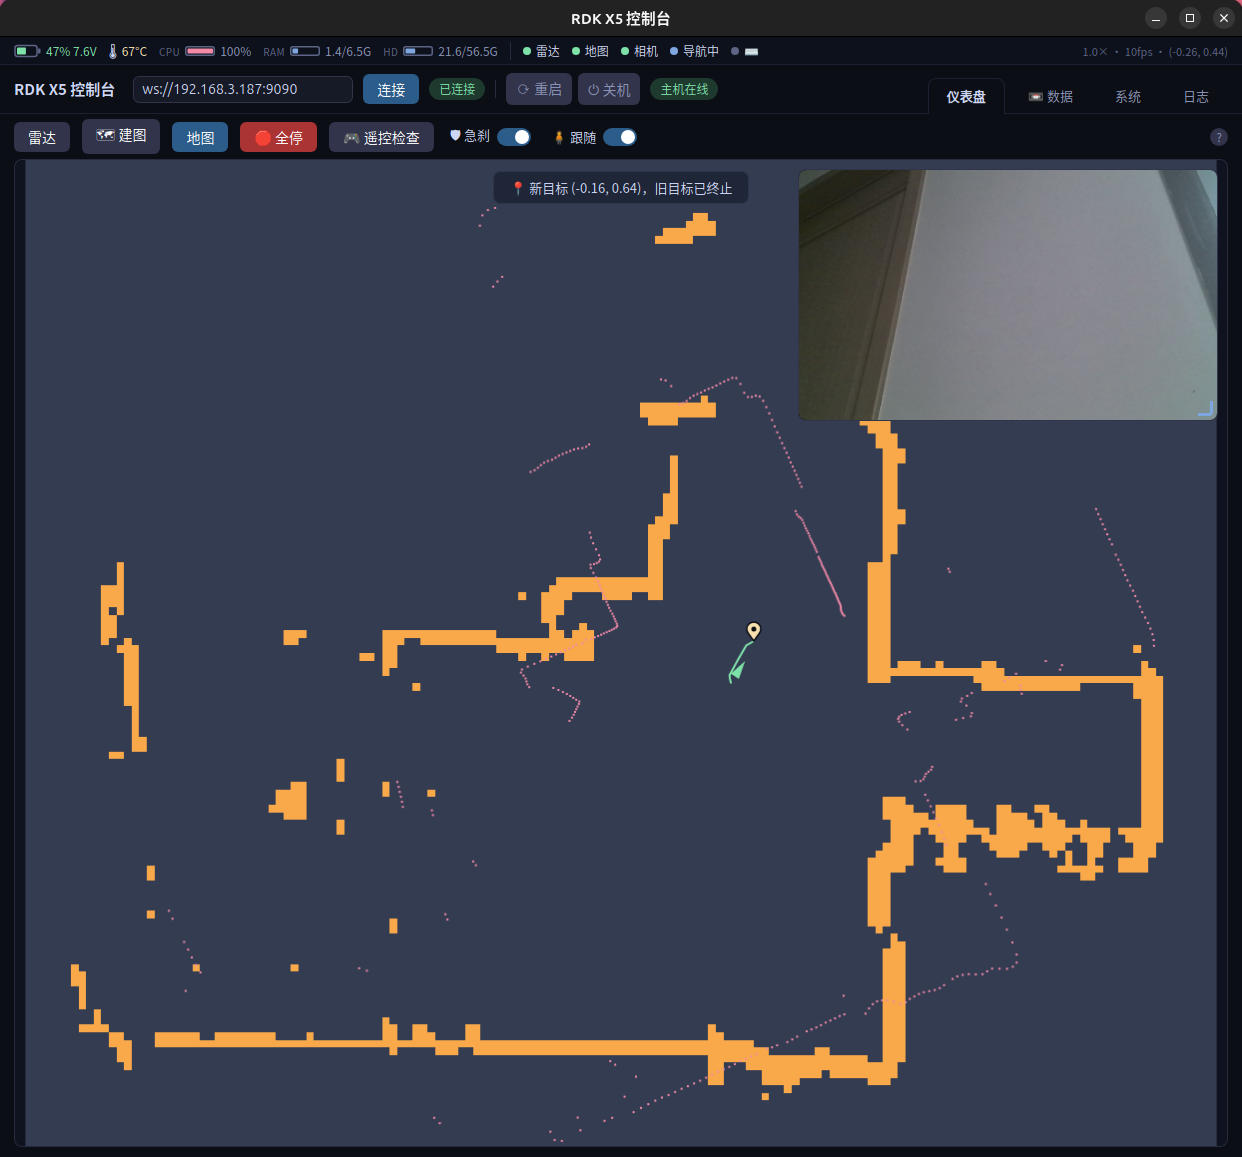
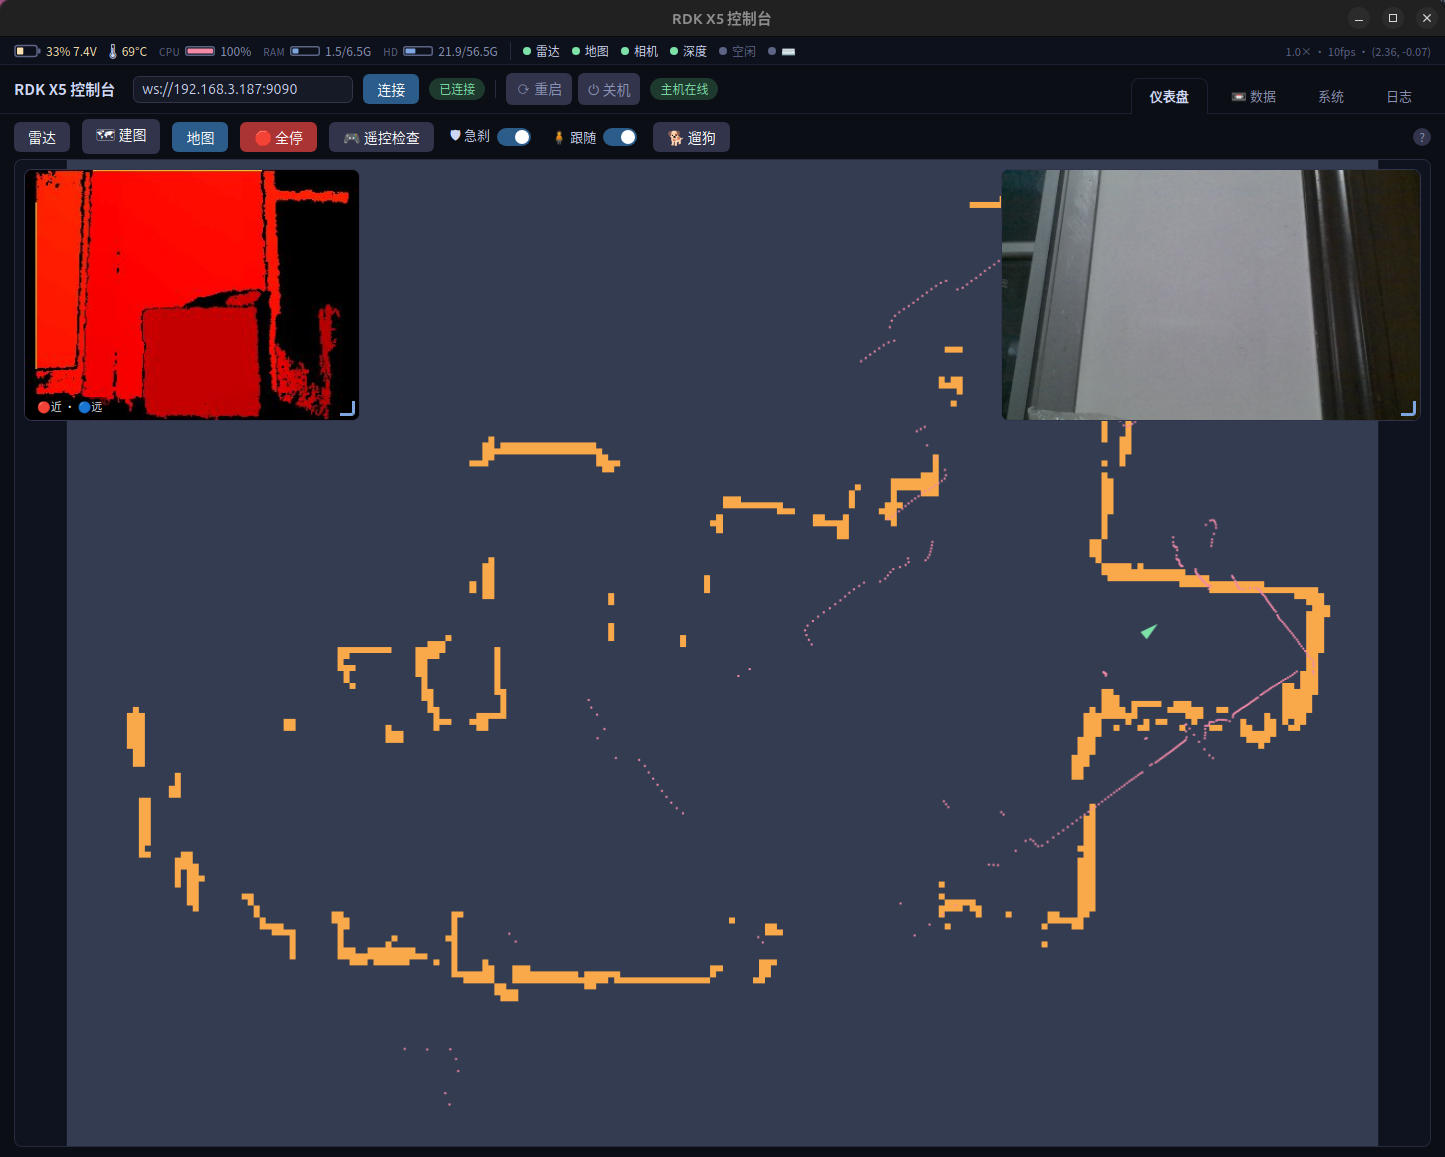
docs(readme): reorganize into 7 sections, add dog-walk mode and Astra depth camera

diff --git a/README.md b/README.md
@@ -1,186 +1,191 @@
 # RDK X5 Robot 实验记录 / Experiments
 
-亚博（Yahboom）**RDK X5 ROBOT** 麦克纳姆轮小车上的机器人实验：自主导航、
-相机+雷达融合跟随、自研桌面控制台。主控为地平线 D-Robotics **RDK X5**
-（8×Cortex-A55 + 10TOPS BPU），预装 Ubuntu 22.04 + ROS2 Humble + TogetheROS（tros）。
+亚博（Yahboom）**RDK X5 ROBOT** 麦克纳姆轮小车上的机器人实验：自主导航、融合跟随、
+反应式漫游、深度感知、数据录制，外加一个自研桌面控制台。主控为地平线 D-Robotics
+**RDK X5**（8×Cortex-A55 + 10 TOPS BPU），预装 Ubuntu 22.04 + ROS2 Humble + TogetheROS（tros）。
 
-> 传感器布局：顶部 ORADAR MS200 激光雷达（360° / 10 Hz）；车头 IMX219 MIPI 相机（斜向上装，
-> 看人脸和上身）；四轮麦克纳姆轮（全向移动）。
+> 传感器布局：顶部 ORADAR MS200 激光雷达（360° / 10 Hz）；车头 **USB Orbbec Astra Pro
+> 结构光深度相机**（深度 + 彩色，替换原 IMX219 CSI 相机）；四轮麦克纳姆轮（全向移动）。
 
 ![RDK X5 Robot](docs/images/car.jpg)
 
-**接入 / 冷启动 / WiFi / VNC / 相机预览**等环境配置已拆到
+**接入 / 冷启动 / WiFi / VNC / 相机预览**等环境配置见
 👉 [`docs/setup.md`](docs/setup.md)。日常 `ssh root@192.168.3.187`，开机自启全套服务，直接做实验。
 
 ---
 
 ## 实验一览 / Experiments at a glance
 
-| 实验 | 状态 | 入口 / 文档 |
+| 实验 | 状态 | 入口 |
 | --- | --- | --- |
-| 系统体检与硬件拓扑 | ✅ | [`docs/rdk-x5-system-report.html`](docs/rdk-x5-system-report.html) |
-| 雷达/相机/底盘打通 + 浏览器仪表盘 | ✅ | [`docs/lidar-live-viewer.html`](docs/lidar-live-viewer.html) |
-| Cartographer 建图 + Nav2 自主导航 | ✅ | §2，参数 `board/home/sunrise/nav_config/` |
-| GUI 一键建图/存图工作流 | ✅ 实测 | §2，[`docs/rdk-x5-mapping-workflow.html`](docs/rdk-x5-mapping-workflow.html) |
-| Episode 数据录制（rosbag2）+ 数据 Tab | ✅ 实测 | §4，[`docs/rdk-x5-dataset-recorder-design.html`](docs/rdk-x5-dataset-recorder-design.html) |
-| cmd_vel 安全仲裁 + 驱动崩溃自愈 | ✅ | §2.2 事故复盘 |
-| 激光急刹 safety_stop（rclcpp） | ✅ 实测 | §2.3，[`board/home/sunrise/ros2_ws/src/safety_stop/`](board/home/sunrise/ros2_ws/src/safety_stop/) |
-| **Follow-me 相机+雷达融合跟随** | ✅ 实测可用 | §3，[`docs/rdk-x5-follow-me-fusion.html`](docs/rdk-x5-follow-me-fusion.html) |
-| 桌面控制台 GUI（Tauri） | ✅ | §1，[`docs/rdk-x5-gui-architecture.html`](docs/rdk-x5-gui-architecture.html) |
-| 官方实验取舍与进阶路线（4090 端云推理） | 📝 规划 | [`docs/rdk-x5-official-experiments-and-advanced-practice.html`](docs/rdk-x5-official-experiments-and-advanced-practice.html) |
+| 桌面控制台 GUI（Tauri，4 Tab） | ✅ | §1 |
+| Cartographer 建图 + Nav2 自主导航 + GUI 一键建图/存图 | ✅ 实测 | §2 |
+| cmd_vel 安全仲裁 + 驱动崩溃自愈 + 激光急刹 safety_stop | ✅ 实测 | §2.2 / §2.3 |
+| Follow-me 相机 + 雷达融合跟随 | ✅ 实测 | §3.1 |
+| 遛狗模式：纯反应式雷达漫游/闻/后退/转身 | ✅ 已部署 | §3.2 |
+| USB Astra 深度相机预览（裸 OpenNI2） | ✅ 实测 | §4 |
+| Episode 数据录制（rosbag2）+ 数据 Tab | ✅ 实测 | §5 |
+| 官方实验取舍与进阶路线（4090 端云推理） | 📝 规划 | [`docs/…advanced-practice.html`](docs/rdk-x5-official-experiments-and-advanced-practice.html) |
 
 ---
 
 ## 1. 桌面控制台 GUI（Tauri 自研）
 
 `gui/` 下的跨平台桌面应用（Tauri + rosbridge websocket），把散落的浏览器页面收敛成一个控制台，
-四个 Tab：**仪表盘**（地图/雷达/相机三层叠加、点击图钉导航、建图/存图、急刹与跟随开关、全停）、
-**📼 数据**（episode 列表/录制/预览回看/RViz 回放/拉取删除）、**系统**（硬件拓扑 + 软件栈框图）、
-**日志**（板上 journald 流式查看）。状态栏：电量/温度/CPU/内存/硬盘 + 各话题活性灯。
+四个 Tab：
 
-**仪表盘**：地图（AMCL 定位，绿色箭头为车）+ 雷达点云（粉色）+ 相机画中画（含手势检测框叠加）。
-**点击地图任意点 = 📍 图钉落地 + 下发导航目标**（再点=换目标，🛑 全停清除）。
-顶栏 `🧍 跟随` 滑块开关直接 enable/disable 板上 `follow-me.service`，重启小车依然生效：
+- **仪表盘** — 地图（AMCL 定位，绿箭头为车）+ 雷达点云（粉）+ **右上彩色画中画** + **左上深度画中画**
+  （红近蓝远）；点击地图任意点 = 📍 图钉落地 + 下发导航目标；顶栏按钮：建图/存图、🛡 急刹、
+  🧍 跟随、🐕 遛狗、🛑 全停。
+- **📼 数据** — episode 列表 / 录制 / 行内回看 / 本机 RViz 回放 / 拉取删除（§5）。
+- **系统** — 实机核实的硬件拓扑 + ROS2 软件栈框图（节点按出身着色）。
+- **日志** — 板上 journald 流式查看。
+
+状态栏：电量 / 温度 / CPU / 内存 / 硬盘 + 各话题活性灯（含深度流 `iDepth`）。
 
 ![GUI 仪表盘](docs/images/gui-dashboard.jpg)
 
-**系统 Tab**：实机核实的硬件拓扑 + ROS2 软件栈框图（节点按出身着色：上游/tros/亚博/自研），
-右侧汇总 systemd 自启服务与程序/配置落盘位置——新人看这一屏就知道整车软件怎么组织：
+**系统 Tab**：硬件拓扑 + 软件栈框图，右侧汇总 systemd 服务与程序/配置落盘位置——新人看一屏就懂整车软件：
 
 ![GUI 系统拓扑](docs/images/gui-system.jpg)
 
-架构细节（进程模型、rosbridge 订阅清单、离线降级）见
+架构细节（进程模型、rosbridge 订阅清单、离线降级、悬浮窗拖拽公用件）见
 [`docs/rdk-x5-gui-architecture.html`](docs/rdk-x5-gui-architecture.html)。
 
 ---
 
-## 2. 建图与 Nav2 自主导航（2026-07-11 实机验证 ✅）
+## 2. 建图与 Nav2 自主导航（实机验证 ✅）
 
-- **建图（GUI 一键工作流，2026-07-14 ✅）**：仪表盘 `🗺 建图` 按钮启停
-  `mapping.service`（仅 cartographer 本体，`Conflicts=nav2.service` 与导航互斥交接）；
-  手柄慢速走一圈，画布实时显示地图生长，**暗橙=存图会被三值化丢掉的弱墙**（置信度 25–65），
-  开近补扫变亮橙再存；`💾 存图` 跑 `map_save.sh`：备份 `room.bak.*` → 覆盖
-  `room.{yaml,pgm}` → 自动切回导航。详见
-  [`docs/rdk-x5-mapping-workflow.html`](docs/rdk-x5-mapping-workflow.html)。
-- **导航**：`navigation_dwb_launch.py`（Nav2 + AMCL + DWB），调优参数
-  `/home/sunrise/maps/nav_params_tuned.yaml`：`robot_radius 0.1→0.13`、膨胀半径
-  `0.12/0.2→0.35`（否则贴着桌腿擦过去必撞）、限速 0.18 调通后提至 `0.6`。
-- **交互**：GUI 里**点击地图任意点**即下发目标（📍 图钉常驻显示最新目标，
-  终点朝向自动取车→目标方向），`🛑 全停` 取消。
+- **建图（GUI 一键工作流）**：仪表盘 `🗺 建图` 启停 `mapping.service`（仅 cartographer，
+  `Conflicts=nav2` 与导航互斥交接）；手柄慢速走一圈，画布实时显示地图生长，
+  **暗橙 = 存图会被三值化丢掉的弱墙**（置信 25–65），近补扫变亮橙再存；`💾 存图` 备份旧图 →
+  覆盖 `room.{yaml,pgm}` → 自动切回导航。详见 [`docs/rdk-x5-mapping-workflow.html`](docs/rdk-x5-mapping-workflow.html)。
+- **导航**：`navigation_dwb_launch.py`（Nav2 + AMCL + DWB），关键调参 `nav_params_tuned.yaml`：
+  `robot_radius 0.1→0.13`、膨胀半径 `→0.35`（否则贴桌腿擦过必撞）、限速 0.18 调通后提至 0.6。
+- **交互**：GUI 点击地图任意点即下发目标（📍 图钉常驻最新目标，`🛑 全停`取消）。
 
-### 2.1 开机自启服务（板上 6 个）
+### 2.1 开机自启服务
 
-unit 文件在仓库 [`board/etc/systemd/system/`](board/etc/systemd/system/)，重启实测通过：
+unit 在 [`board/etc/systemd/system/`](board/etc/systemd/system/)，重启实测通过：
 
 | 服务 | 作用 |
 |---|---|
 | `ms200-lidar` | 雷达驱动，发布 `/scan` |
 | `rosbridge` | DDS → WebSocket 桥（`ws://<板子IP>:9090`） |
-| `mipi-cam` | 相机 `/image_jpeg`（等 ISP 就绪再起，防开机竞态） |
-| `nav-bringup` | 底盘驱动 + 里程计/EKF + 手柄 + cmd_vel 仲裁 mux + episode 录制器（§4） |
+| `astra-cam` | USB Astra 深度相机预览节点（§4，替换退役的 CSI `mipi-cam`） |
+| `nav-bringup` | 底盘驱动 + 里程计/EKF + 手柄 + cmd_vel 仲裁 mux + episode 录制器（§5）+ 遛狗节点（§3.2） |
 | `nav2` | AMCL + 规划器 + 控制器（自动喂初始位姿；无目标不动车） |
-| `follow-me` | BPU 感知 ×3 + 融合跟随节点（GUI 开关控制，见 §3） |
+| `follow-me` | BPU 感知 ×3 + 融合跟随节点（GUI 开关控制，§3.1） |
 
-另有按需单元 `mapping`（不自启）：cartographer 建图，`Conflicts=nav2` 互斥，GUI `🗺 建图` 启停。
+另有按需单元 `mapping`（不自启，`Conflicts=nav2`，GUI `🗺 建图` 启停）。
 
 ```bash
 # 换地图/重喂定位：sudo bash /home/sunrise/nav_config/nav_start.sh [map.yaml]
-# 重刷机后恢复：在电脑上跑 scripts/deploy_board.sh（rsync board/ 镜像 + enable 服务）
+# 重刷机后恢复：电脑上跑 scripts/deploy_board.sh（rsync board/ 镜像 + enable 服务）
 ```
 
 ### 2.2 cmd_vel 安全仲裁与事故复盘（重要）
 
-- **仲裁 mux**（[`board/home/sunrise/nav_config/cmd_vel_mux.py`](board/home/sunrise/nav_config/cmd_vel_mux.py)，自研）：
-  三优先级 `/cmd_vel_joy`(手柄) > `/cmd_vel_follow`(跟随) > `/cmd_vel`(Nav2) 汇入 → `/cmd_vel_mux`
-  → §2.3 激光急刹 → `/cmd_vel_drv` → 驱动。
-  导航/跟随中动手柄立即接管，松手 0.5 s 恢复；**空闲时持续发零速**（10 Hz）；
-  另带**方向感知雷达护栏**：沿运动方向 ±30° 扇区取最近障碍，按余量线性限速，无有效数据视为堵死。
+**仲裁 mux**（[`cmd_vel_mux.py`](board/home/sunrise/nav_config/cmd_vel_mux.py)，自研）四级优先级汇入：
+`/cmd_vel_joy`(手柄) > `/cmd_vel_dog`(遛狗) > `/cmd_vel_follow`(跟随) > `/cmd_vel`(Nav2)
+→ §2.3 激光急刹 → `/cmd_vel_drv` → 驱动。导航/跟随中动手柄立即接管，松手 0.5 s 恢复；
+**空闲持续发零速**（10 Hz）；另带**方向感知雷达护栏**（沿运动方向 ±30° 取最近障碍线性限速）。
+
 - **事故复盘**：亚博 `Mcnamu_driver` 的 RGB 灯 I2C 写入无异常保护，按手柄键可致
-  **驱动进程崩死 → MCU 持续执行最后一条非零速度 → ROS 层任何停车手段全部失效**。
-  修复=驱动 `respawn=True` + mux 空闲零速流，实测行驶中 `kill -9` 驱动 ≈1.5 s 内自动刹停。
-  浏览器/GUI 的"终止"按钮**不是急停**——WiFi 断了它就是块砖；真急停=手柄使能键/拎车/电源开关。
-- **手机 APP 与导航互斥**：亚博 APP 直写底盘串口（不走 ROS），与驱动并存会双写抢串口导致
-  车抽搐。其 XFCE 自启已禁（`Start APP Program.desktop` 置 `Hidden=true`，改回即恢复原厂）。
-- **systemd 坑**：厂商 `cam-service` 单元 `After=multi-user.target` 又 `WantedBy=multi-user.target`，
-  任何 `After=cam-service` 的服务都会构成依赖环 → **开机静默丢弃 job（无日志）**。
-- **电量**：`/voltage`（2S 18650，满 8.4 V；≈7.6 V 扩展板蜂鸣报警+限电机）。GUI 顶栏显示百分比。
+  **驱动崩死 → MCU 持续执行最后一条非零速度 → ROS 层任何停车全部失效**。
+  修复 = 驱动 `respawn=True` + mux 空闲零速流，实测行驶中 `kill -9` 驱动 ≈1.5 s 内自动刹停。
+  **浏览器/GUI 的"终止"不是急停**（WiFi 断了它就是块砖）；真急停 = 手柄使能键 / 拎车 / 电源开关。
+- **欠压坑**：`/voltage` ≤7.6 V（2S 18650，满 8.4 V）扩展板蜂鸣 + 限电机，驱动 I2C 大面积报错，
+  表现酷似"遥控坏了"——先看电池条，唯一解是充电。
+- **手机 APP 互斥**：亚博 APP 直写串口（不走 ROS），与驱动双写抢串口致车抽搐，XFCE 自启已禁。
+- **systemd 坑**：厂商 `cam-service` 单元 `After` 与 `WantedBy` 都指 `multi-user.target`，
+  任何 `After=cam-service` 会构成依赖环 → 开机静默丢 job（无日志）。
 
-### 2.3 激光急刹 safety_stop / Lidar safety brake（rclcpp，实测 ✅）
+### 2.3 激光急刹 safety_stop（rclcpp，实测 ✅）
 
-自研 C++ 节点 [`board/home/sunrise/ros2_ws/src/safety_stop/`](board/home/sunrise/ros2_ws/src/safety_stop/)，
-串在仲裁 mux 与驱动之间（`/cmd_vel_mux` → safety_stop → `/cmd_vel_drv`），
-过滤**最终输出**——手柄、跟随、Nav2 一视同仁：
+自研 C++ 节点 [`ros2_ws/src/safety_stop/`](board/home/sunrise/ros2_ws/src/safety_stop/)，串在 mux 与驱动之间，
+过滤**最终输出**（手柄/跟随/Nav2 一视同仁）：
 
-- **净空比例限速，不是固定阈值急停**：沿运动方向 ±30° 雷达扇区取最近障碍，
-  允许速度 = (净空 − 0.30 m) / 0.5，0.30 m 处归零。快=提前从 ~0.8 m 外开始压速度，
-  慢=几乎无感。实测固定 30 cm 阈值在 1.0 m/s 全速下刹不住（10 Hz 雷达延迟+惯性滑行），
-  比例限速全速冲墙可停。
-- **方向感知,永不锁死**：前进查前方、倒车查后方、横移查侧方（MS200 360°）；
-  背离障碍物的方向永远放行,被拦住后直接反向开走。原地旋转不拦。
-- **fail-open**：雷达挂了放行不拦（手柄不能陪葬），日志告警；
-  无人监督的跟随通道在 mux 层另有 fail-close 护栏兜底。
-- **运行时开关**：开机默认开；GUI 顶栏 `🛡 急刹` 拨钮或手柄按键发 `/safety_toggle` 翻转，
-  状态经 latched `/safety_enabled` 广播（节点持有状态,各处只发翻转+镜像显示,单一机制）。
-  切换蜂鸣反馈：**开=滴滴两短,关=长滴一声**（走驱动 `/Buzzer` 话题）。
-- 板上 `~/ros2_ws` colcon 编译；由 `nav-bringup` 启动、respawn 自愈；阈值/增益是 ROS 参数。
+- **净空比例限速,非固定阈值**：沿运动方向 ±30° 取最近障碍，允许速度 =(净空−0.30)/0.5，0.30 m 归零。
+  实测固定 30 cm 阈值在 1 m/s 全速刹不住（雷达 10 Hz 延迟 + 滑行），比例限速全速冲墙可停。
+- **方向感知,永不锁死**：前进查前、倒车查后、横移查侧；背离障碍永远放行；原地旋转不拦。
+- **fail-open**：雷达挂了放行（手柄不陪葬），跟随通道在 mux 层另有 fail-close 兜底。
+- **运行时开关**：默认开；GUI `🛡 急刹` 或手柄键发 `/safety_toggle` 翻转，latched `/safety_enabled` 广播；
+  开 = 滴滴两短,关 = 长滴一声（走 `/Buzzer`）。
 
 ---
 
-## 3. Follow-me：相机 + 雷达融合跟随（实测可用 ✅）
+## 3. 自主行为 / Autonomous behaviors
 
-自研 rclpy 节点 [`board/home/sunrise/follow/follow_me.py`](board/home/sunrise/follow/follow_me.py)，
-对着相机 **👌 OK 手势**锁定主人开始跟随（滴滴短鸣），**✋ 手掌**停止（长鸣一声）。
-核心思路：**两条观测通道常开并行，不做模式切换**——
+### 3.1 Follow-me：相机 + 雷达融合跟随（实测可用 ✅）
 
-| 通道 | 传感器 | 提供什么 | 频率 |
-| --- | --- | --- | --- |
-| 身份通道 | 相机 + BPU（mono2d 人体检测 / 手势识别） | 是谁（track_id）、方位角、轮廓尺度 | ~30 FPS |
-| 几何通道 | MS200 雷达腿聚类 | 精确距离与方位（360°，含车后） | 10 Hz |
+自研 rclpy 节点 [`follow_me.py`](board/home/sunrise/follow/follow_me.py)：对相机比 **👌 OK** 锁定主人开始跟随，
+**✋ 手掌**停止。核心是**两条观测通道常开并行,不做模式切换**——相机 + BPU 给身份/方位角/尺度（~30 FPS），
+MS200 雷达腿聚类给精确距离方位（10 Hz，含车后）；单控制环 10–40 Hz 融合，相机暗了无缝落雷达。关键设计：
 
-单一控制环 10–40 Hz 融合两者：相机新鲜时用相机方位角，暗了（转身/出视野/1 m 内仰角丢人）
-无缝落到雷达腿跟踪；雷达门限用相机方位锚定或按腿速度外推。关键设计：
+- **认腿 = 运动判别**：桌腿凳腿尺寸与人腿不可分，唯一可靠特征是"会动"；用 `/odom` 换算世界系抵消自身运动，
+  新咬合要求该位置 1.2 s 前是空的，持有中若 3 s 世界系静止且相机也黑则判定跟错家具、放弃。
+- **麦轮矢量速度**：速度向量直指主人（不等车头转过去）+ PD 转向甩头；直行 0.5，斜向最高 0.8 m/s。
+- **安全**：跟随速度同样过 §2.2 mux 护栏与手柄抢占；感知超时 3 s 强制刹停。
 
-- **认腿=运动判别**：桌腿/凳腿尺寸上与人腿不可分，唯一可靠特征是"会动"。
-  用 `/odom` 把雷达聚类换算到**世界系**抵消自身运动——新咬合要求该位置 1.2 s 前是空的，
-  持有中若 3 s 世界系静止且相机也黑，判定跟错了家具，放弃。
-- **麦轮矢量速度**：速度向量 `vx=v·cosθ, vy=v·sinθ` 直指主人（不等车头转过去），
-  同时 PD 转向（比例 + 方位变化率前馈）高频把车头甩向主人；直行 0.5 m/s，
-  角度越大越加速，斜向最高 0.8 m/s。
-- **丢失恢复**：短暂丢失（<10 s）主人回到视野即自动"滴滴"重锁；两通道全黑 2.5 s 才停车。
-- **安全**：跟随速度同样过 §2.2 的 mux 雷达护栏与手柄抢占；感知超时 3 s 强制刹停。
+算法细节（门限、状态机、手势投票、踩坑六条）见 [`docs/rdk-x5-follow-me-fusion.html`](docs/rdk-x5-follow-me-fusion.html)。
+> 注：跟随基于原 IMX219 相机开发，现相机已换 USB Astra，跟随链接回 Astra 彩色（含几何适配）待办。
 
-启动链 [`follow_start.sh`](board/home/sunrise/follow/follow_start.sh) 拉起 3 个 tros BPU 感知节点
-（人体检测→手部关键点→手势分类，全程 BPU 推理，单帧 ~10 ms）+ 融合节点，由
-`follow-me.service` 管理，GUI 滑块一键启停并持久化。
+### 3.2 遛狗模式：纯反应式雷达漫游（已部署）
 
-算法细节（门限参数、状态机、手势投票、踩坑六条）见
-👉 [`docs/rdk-x5-follow-me-fusion.html`](docs/rdk-x5-follow-me-fusion.html)。
+自研 rclpy 节点 [`dog_walk.py`](board/home/sunrise/nav_config/dog_walk.py)：小车像小狗一样走走停停闻闻——
+朝最空方向**三角波变速**小跑（空旷快，≤0.5 m/s），撞见桌脚凳脚一类**孤立小障碍**凑近"闻"几秒、
+后退一小步、朝净空方向转身去下一处。**不用地图 / 不用 Nav2 / 不用 odom** —— 就是单帧 MS200 的反应式行为。
 
----
+- **认腿**：物理宽度 [0.02,0.3] m + 最少点数 + 连续 3 帧一致（不用 odom）；随机加权开阔方向选路。
+- **停动作不停功能**：mux 里遛狗排 P1（跟随/Nav2 之上），启遛狗即在总线层压住它们的运动，
+  但**功能开关/服务原样在**，遛狗一停立刻续上；反向靠单次 `/dog_stop` 抢占。
+- **触发/安全**：手柄 **R1 键** / GUI **🐕 遛狗** 按钮切换（启 = 两短滴,停 = 一长滴,GUI 显示已跑秒数），
+  最长 10 min 自动停；抓杆即退出、雷达失联 fail-close 停车、Y 键 / 🛑 全停一并停。
 
-## 4. Episode 数据录制与回放（rosbag2，实测 ✅）
-
-为后续模仿学习/数据集积累做的一键示教录制：手柄 **START 键**或 GUI/数据 Tab 的 `⏺ 录制`
-按钮开停，板端常驻节点 [`episode_recorder.py`](board/home/sunrise/nav_config/episode_recorder.py)
-（随 `nav-bringup` 启动）把 11 个话题（scan/odom/tf/各级 cmd_vel/joy/相机 JPEG）录成
-`~/episodes/ep_<时间戳>/`，蜂鸣反馈、磁盘余量护栏、时长上限（默认 3 min，GUI 可调）。
-复用急刹开关同款**单一属主模式**：节点持有状态，手柄/GUI 只发 `/record_toggle` 翻转 +
-镜像 latched `/recording`；🛑 全停走幂等 `/record_stop`（不会反向开录）。
-
-**GUI 📼 数据 Tab**：episode 列表（倒序/大小/时长/板上余量）、行内展开快速回看
-（帧滑条 + odom 轨迹 + cmd_vel 时间轴，走 ≤150 帧抽样 preview，5 MB 级秒拉）、
-`🔭 回放` 一键拉包并本机 RViz2 复现（`scripts/replay.sh`，隔离 DOMAIN + sim time）、
-拉取/删除。深度分析用 [`notebooks/episode_lab.ipynb`](notebooks/episode_lab.ipynb)。
-设计与评审细节见 [`docs/rdk-x5-dataset-recorder-design.html`](docs/rdk-x5-dataset-recorder-design.html)。
+设计与 codex 评审（三处坏品味被推翻）见 [`docs/rdk-x5-dog-walk-design.html`](docs/rdk-x5-dog-walk-design.html)。
 
 ---
 
-## 5. 硬件速览 / Hardware at a glance
+## 4. USB Astra 深度相机预览（裸 OpenNI2，实测 ✅）
+
+车头换成 **USB Orbbec Astra Pro** 结构光深度相机，深度伪彩进 GUI 左上窗（红近蓝远）。自研节点
+[`astra_preview.py`](board/home/sunrise/nav_config/astra_preview.py)，`astra-cam.service` 开机自启：
+
+- **弃用亚博 `astra_camera` ROS 驱动**——它开机关 IR 激光、`set_ldp_enable` 又报错关不掉，导致深度恒 0；
+  改用**裸 OpenNI2（primesense）直读**深度（30 fps 稳定），LUT 上色 → `/camera/depth/color_jpeg` @15 fps。
+- **活性看门狗**：只发新帧（冻结即停发，GUI 掉流灯生效）+ 掉线/卡死即进程退出让 systemd 重启（兼顾热插拔）。
+- **USB2 物理限制**：深度（bulk）与彩色（UVC isochronous）带宽互斥，同开彩色会把深度砸到 ~1.5 fps，
+  故**彩色默认关**（`enable_color:=true` 才开）；供电吃紧，需车子供电足或独立供电 hub。
+- **量程**：约 0.6–8 m，太近/太远/玻璃反光/黑色吸红外都无回波（画面对应区域黑，属正常）。
+
+踩坑全记（激光默认关、LDP、带宽矩阵、供电、判据用 rclpy 探针）在 `.memory/rdk-x5-astra-depth.md`。
+
+---
+
+## 5. Episode 数据录制与回放（rosbag2，实测 ✅）
+
+为模仿学习/数据集积累做的一键示教录制：手柄 **START** 或 GUI 数据 Tab `⏺ 录制` 开停，板端常驻节点
+[`episode_recorder.py`](board/home/sunrise/nav_config/episode_recorder.py)（随 `nav-bringup` 起）把 11 个话题
+（scan/odom/tf/各级 cmd_vel/joy/相机 JPEG）录成 `~/episodes/ep_<时间戳>/`，蜂鸣反馈、磁盘护栏、时长上限。
+复用**单一属主模式**：节点持有状态，手柄/GUI 只发 `/record_toggle` 翻转 + 镜像 latched `/recording`。
+
+**GUI 📼 数据 Tab**：episode 列表（倒序/大小/时长/余量）、行内展开快速回看（帧滑条 + odom 轨迹 +
+cmd_vel 时间轴，≤150 帧抽样 preview）、`🔭 回放` 一键拉包本机 RViz2 复现（`scripts/replay.sh`）、拉取/删除。
+
+![GUI 数据 Tab](docs/images/gui-data.jpg)
+
+深度分析用 [`notebooks/episode_lab.ipynb`](notebooks/episode_lab.ipynb)；设计与评审见
+[`docs/rdk-x5-dataset-recorder-design.html`](docs/rdk-x5-dataset-recorder-design.html)。
+
+---
+
+## 6. 硬件速览 / Hardware
 
 | 部件 | 规格 |
 | --- | --- |
-| 主控 | 地平线 **RDK X5 V1.0**（8×Cortex-A55 @1.5 GHz + BPU Bayes-e 10TOPS，6.5 GiB LPDDR4） |
-| 相机 | Sony **IMX219** MIPI CSI0，1080P @30FPS，斜向上安装 |
+| 主控 | 地平线 **RDK X5 V1.0**（8×Cortex-A55 @1.5 GHz + BPU Bayes-e 10 TOPS，6.5 GiB LPDDR4） |
+| 深度相机 | **Orbbec Astra Pro**（USB，结构光深度 + 彩色 UVC；走 OpenNI2）。原 Sony IMX219 CSI 已退役 |
 | 激光雷达 | **ORADAR MS200** 360° 10 Hz，0.15–20 m（`/dev/oradar`） |
 | 底盘 | 麦克纳姆轮 ×4 + STM32 扩展板（串口 `/dev/myserial`，含 IMU/电池管理） |
 | 其他 | AIC8800 WiFi/BT、OLED 状态屏、2.4G 手柄接收器、40-pin GPIO |
@@ -189,36 +194,24 @@ unit 文件在仓库 [`board/etc/systemd/system/`](board/etc/systemd/system/)，
 
 ---
 
-## 6. 目录结构 / Repo layout
+## 7. 目录结构 / Repo layout
 
 ```
 RDK-experience/
 ├── README.md                       # 本文件：实验记录主线
 ├── CLAUDE.md / AGENTS.md           # 给 AI 协作工具的项目说明
 ├── .memory/                        # 跨工具持久记忆（协议 SKILL.md + 索引 + 事实）
-├── board/                          # 板端文件 1:1 镜像（路径与板子一致，重刷机后一键恢复）
-│   ├── etc/systemd/system/         #   服务 unit（自启 ×6 + 按需 mapping，§2.1）
-│   ├── home/sunrise/nav_config/    #   导航/录制自定义件（bringup/mux/joy_teleop/episode_*/map_save）
+├── board/                          # 板端文件 1:1 镜像（重刷机一键恢复）
+│   ├── etc/systemd/system/         #   服务 unit（自启，§2.1）
+│   ├── home/sunrise/nav_config/    #   导航/录制/遛狗/深度相机自定义件
+│   │                               #   （bringup/mux/joy_teleop/episode_*/dog_walk/astra_preview/map_save）
 │   ├── home/sunrise/follow/        #   Follow-me 融合跟随（follow_me.py + follow_start.sh）
 │   ├── home/sunrise/ros2_ws/       #   rclcpp 自研包（safety_stop 激光急刹）
 │   └── home/sunrise/scripts/       #   WiFi 切换 / 相机模式切换等板端脚本
 ├── gui/                            # 桌面控制台（Tauri + rosbridge，§1）
 │   ├── src-tauri/                  #   Rust 后端（ssh 命令、服务开关、episode 管理、单实例）
-│   └── ui/                         #   前端（仪表盘/数据/系统/日志四 Tab）
+│   └── ui/                         #   前端（仪表盘/数据/系统/日志四 Tab；floatbox 悬浮窗公用件）
 ├── notebooks/                      # 工作站分析 notebook（episode_lab / strafe_test）
-├── scripts/                        # 主机侧工具
-│   ├── deploy_board.sh             #   重刷机一键恢复：rsync board/ → 板子 / + enable 服务
-│   └── replay.sh / rviz.sh         #   episode 本机 RViz 回放（隔离 DOMAIN + sim time）
-└── docs/
-    ├── setup.md                    # 接入/冷启动/WiFi/VNC/相机预览（从本文件拆出）
-    ├── images/                     # 实拍与截图
-    ├── rdk-x5-follow-me-fusion.html           # Follow-me 融合算法详解
-    ├── rdk-x5-mapping-workflow.html           # GUI 一键建图/存图工作流
-    ├── rdk-x5-dataset-recorder-design.html    # Episode 录制系统设计
-    ├── rdk-x5-gui-architecture.html           # GUI 架构
-    ├── rdk-x5-system-report.html              # 系统体检报告
-    ├── lidar-live-viewer.html                 # 浏览器实时仪表盘（GUI 的前身，仍可独立用）
-    ├── rdk-x5-wifi-client-guide.html          # WiFi 客户端切换实机指南
-    ├── rdk-x5-mipi-camera-preview-guide.html  # MIPI 相机预览排障指南
-    └── rdk-x5-official-experiments-and-advanced-practice.html   # 进阶路线
+├── scripts/                        # 主机侧工具（deploy_board / replay / rviz）
+└── docs/                           # 设计文档（HTML+内嵌 SVG）、截图、setup 指南
 ```